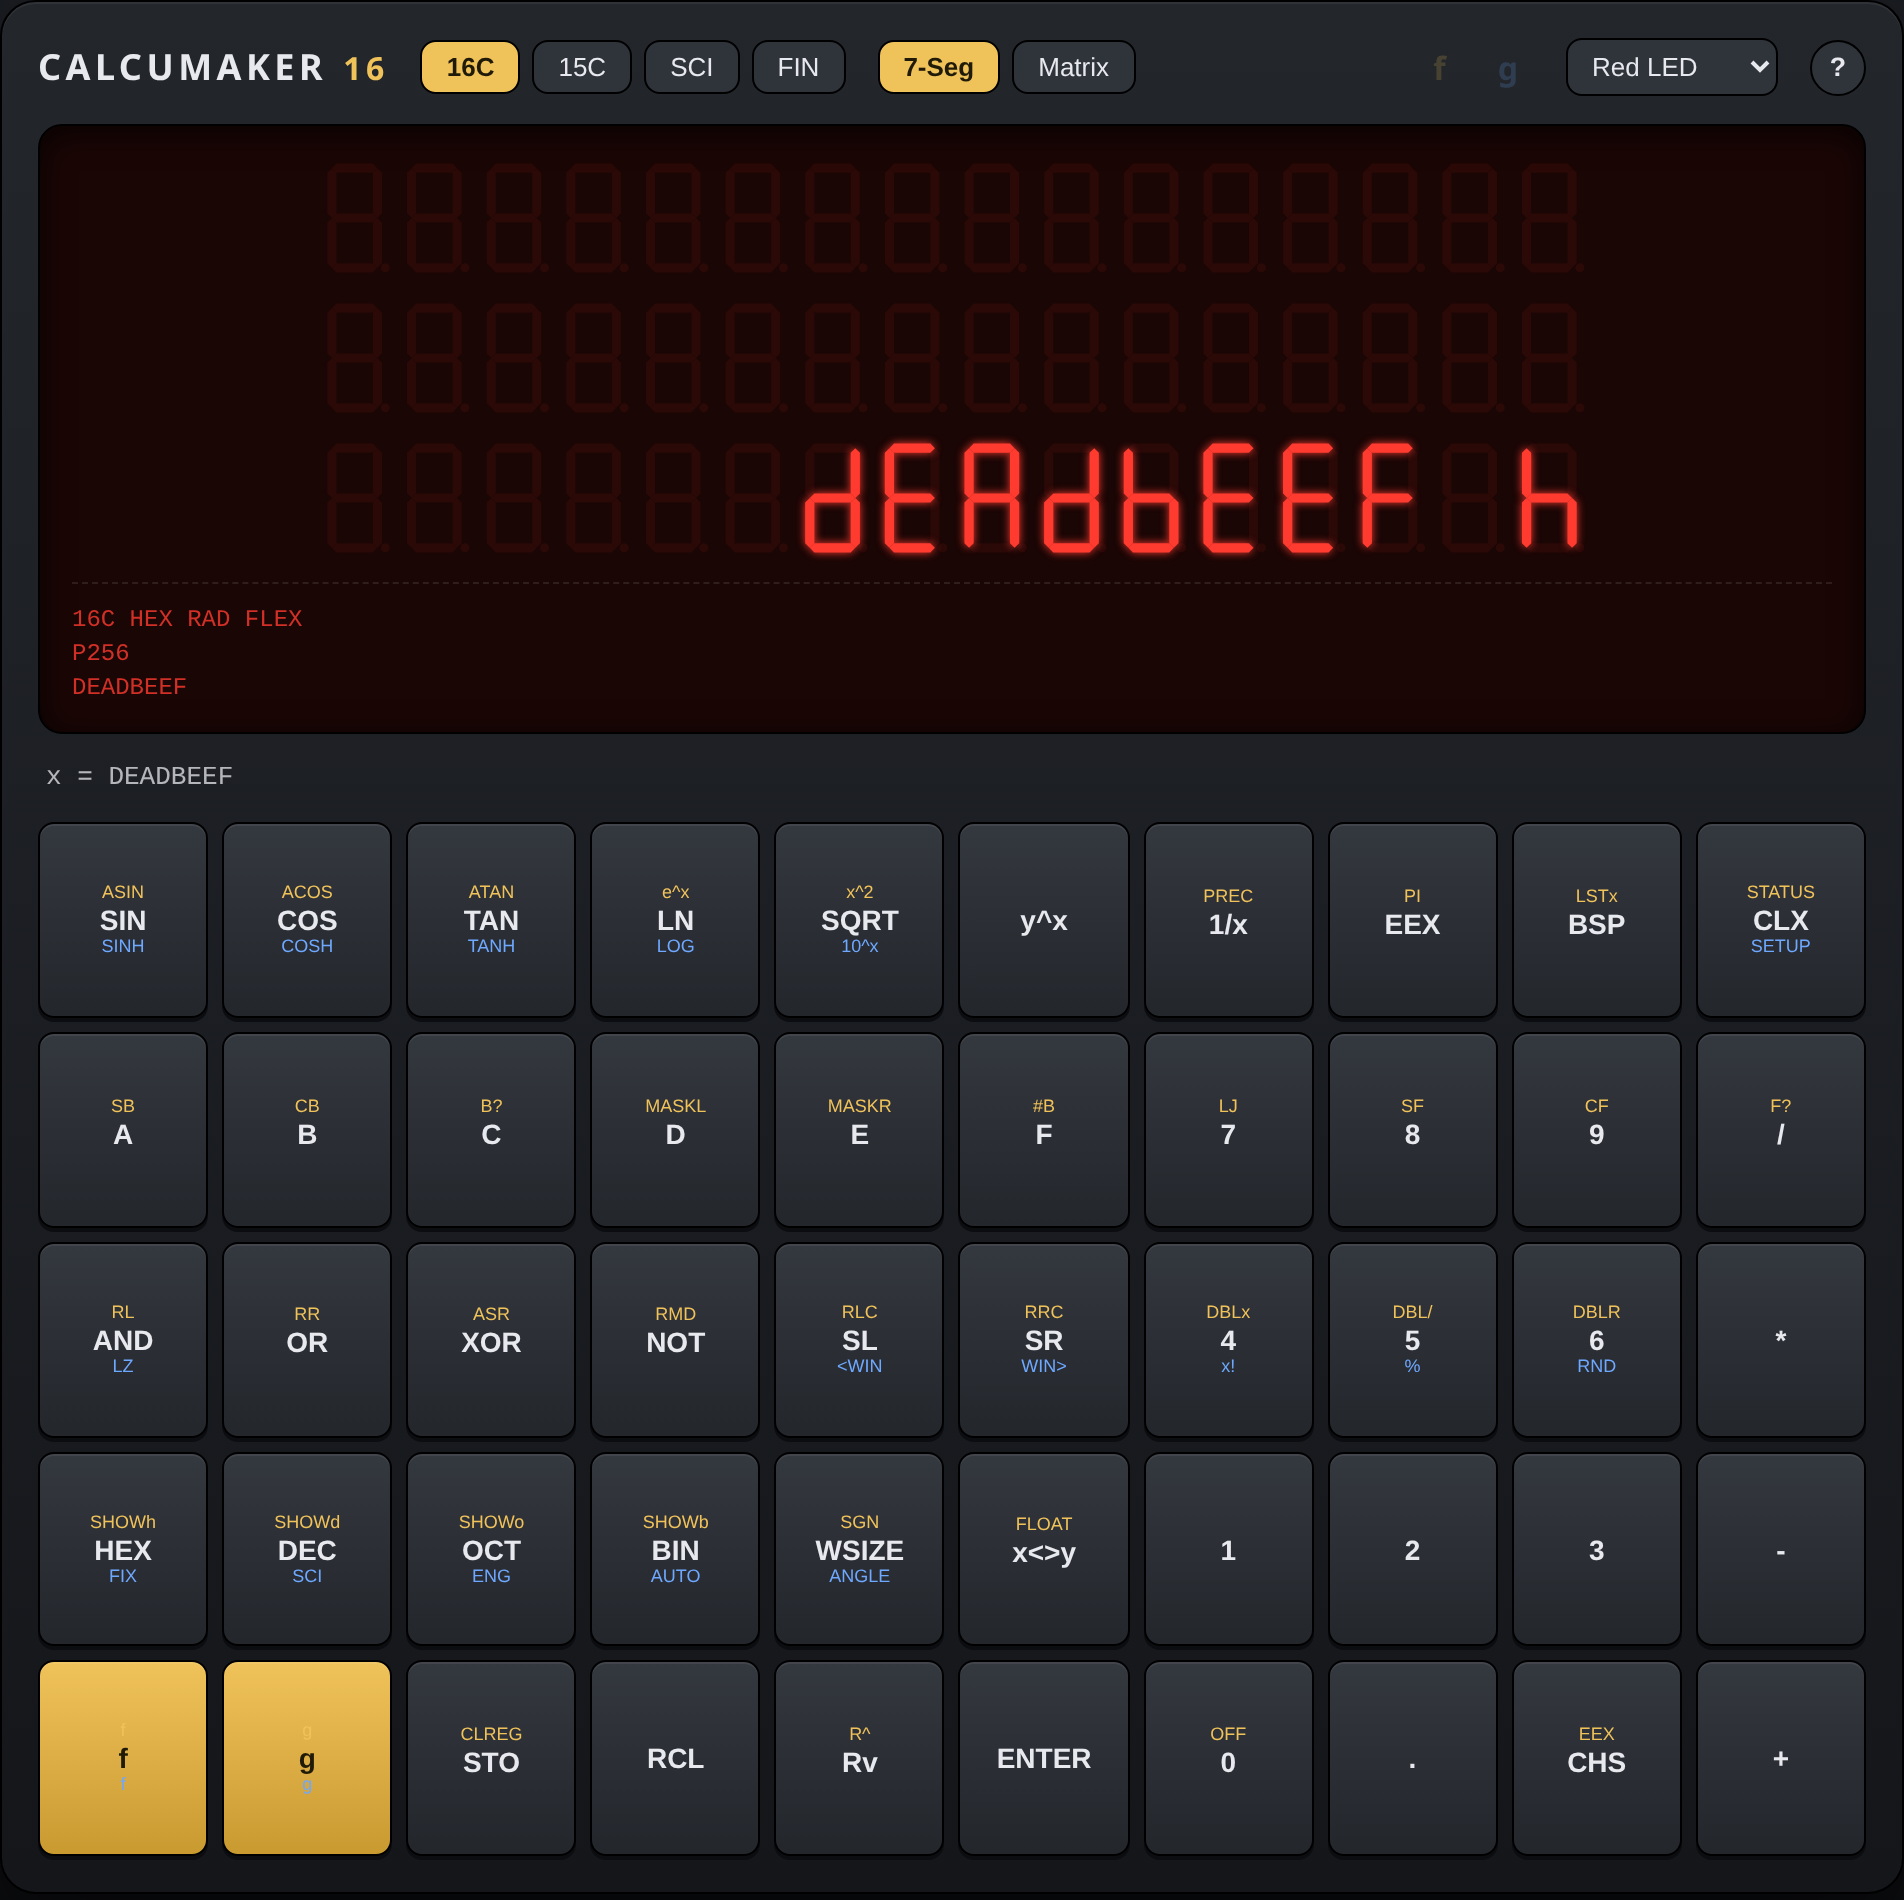
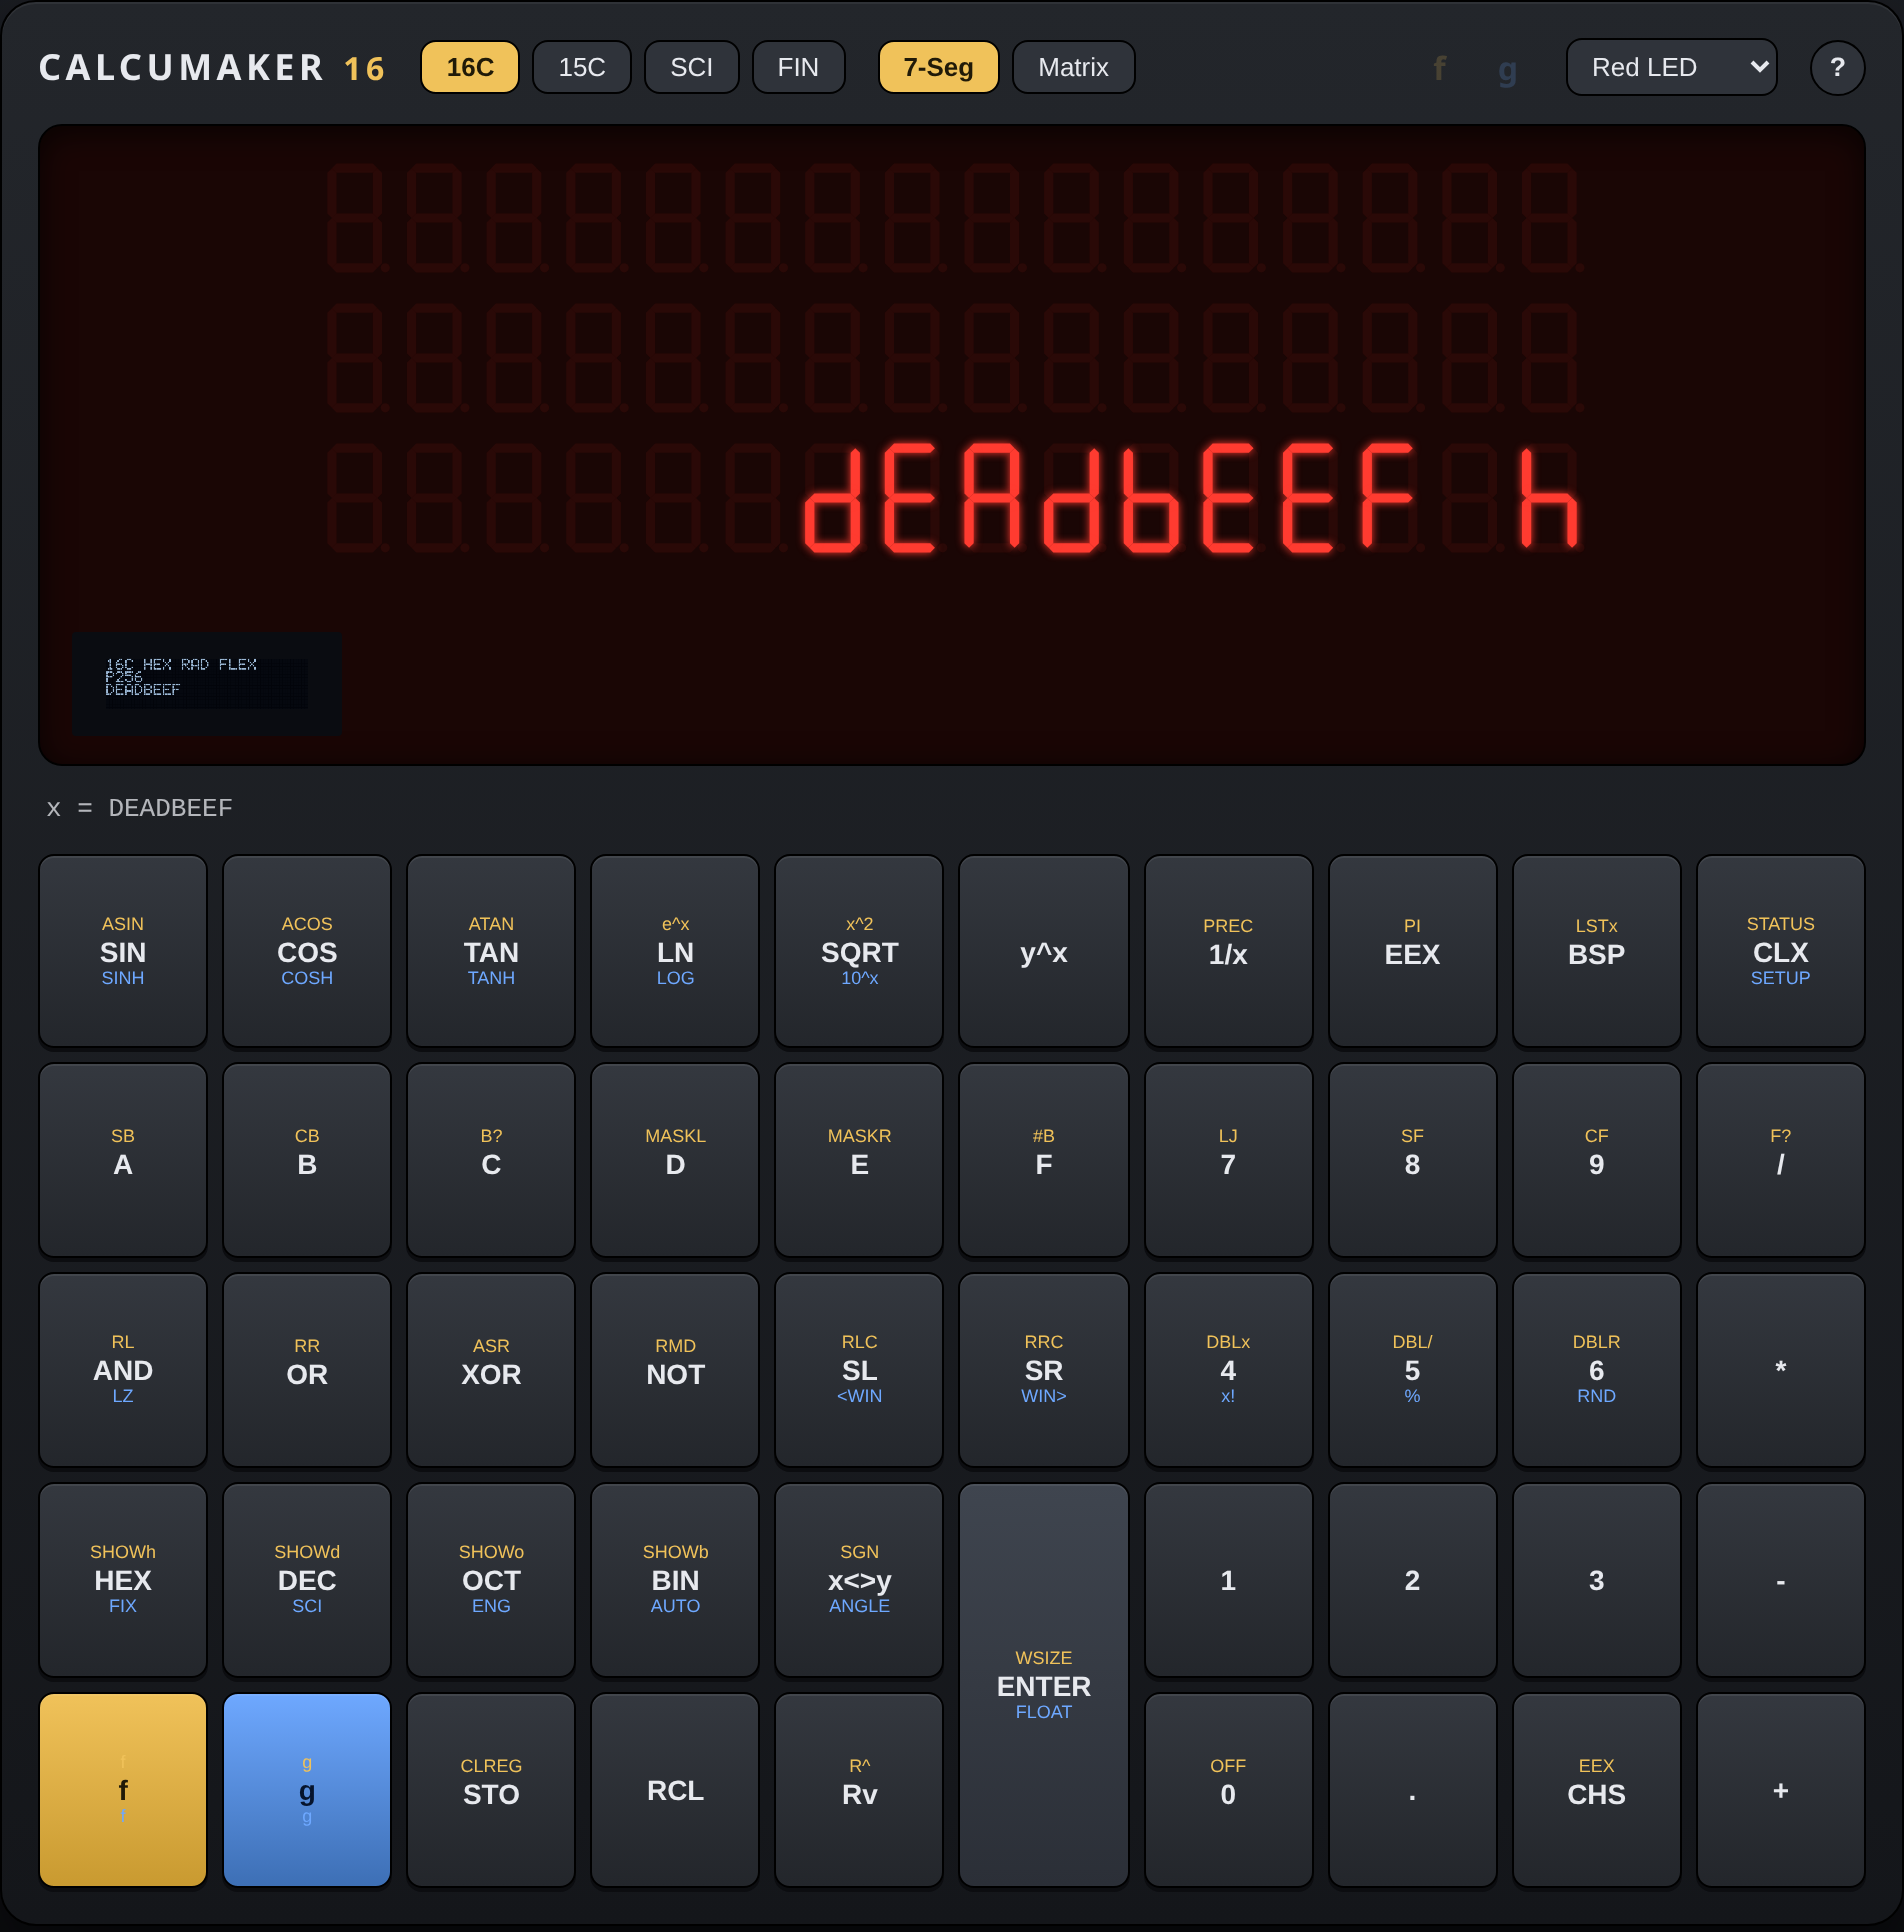
Refresh emulator screenshots from the current faceplate
Regenerated from calcumaker-web's Playwright harness (calcumaker-web@c9c2533),
not mocked up. Shows the 2U ENTER (49 keys), the blue g shift key, the real
0.91" OLED module, the full 5x7 font on the dot-matrix, and the engine's hex
radix suffix ("DEADBEEF h").

Declared width/height updated to the new intrinsic sizes — verify asserts the
attrs match the intrinsic aspect, so a stale declaration would fail CI.

diff --git a/index.html b/index.html
@@ -130,13 +130,13 @@
 
       <div class="shots">
         <figure>
-          <img src="assets/emulator-7seg.png" width="1904" height="1900" loading="lazy" decoding="async"
+          <img src="assets/emulator-7seg.png" width="1904" height="1932" loading="lazy" decoding="async"
                alt="The Calcumaker 16 emulator showing DEADBEEF on a red LED seven-segment display in hex mode, above a full Cherry MX keypad." />
           <figcaption><b>7-segment</b> — 3 × 16 digits, driven by three TM1640s.
           Red, green or amber LED, cyan VFD, or grey LCD skins.</figcaption>
         </figure>
         <figure>
-          <img src="assets/emulator-matrix.png" width="1904" height="1928" loading="lazy" decoding="async"
+          <img src="assets/emulator-matrix.png" width="1904" height="1958" loading="lazy" decoding="async"
                alt="The same emulator switched to the RGB dot-matrix module, rendering a value as glowing coloured LED dots." />
           <figcaption><b>RGB dot-matrix</b> — 96 × 24 pixels, 2,304 WS2812s and a
           5 × 7 font, rendered pixel-for-pixel as the firmware would.</figcaption>